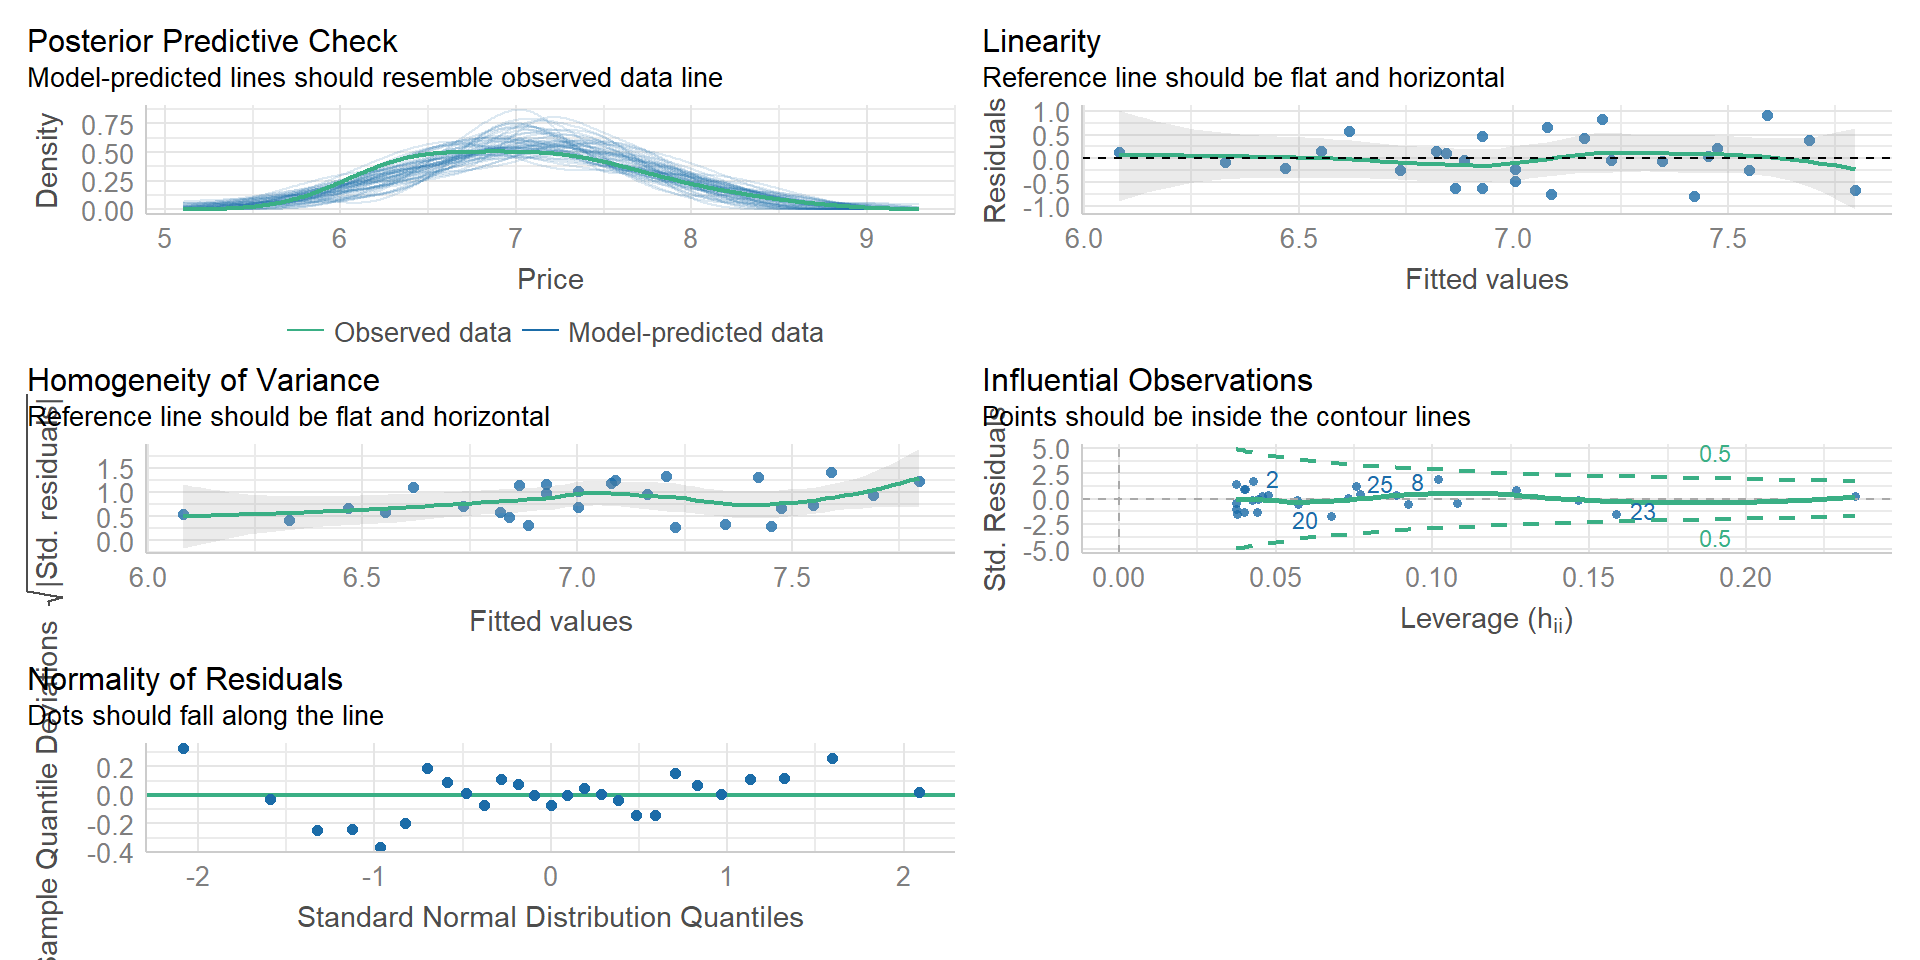
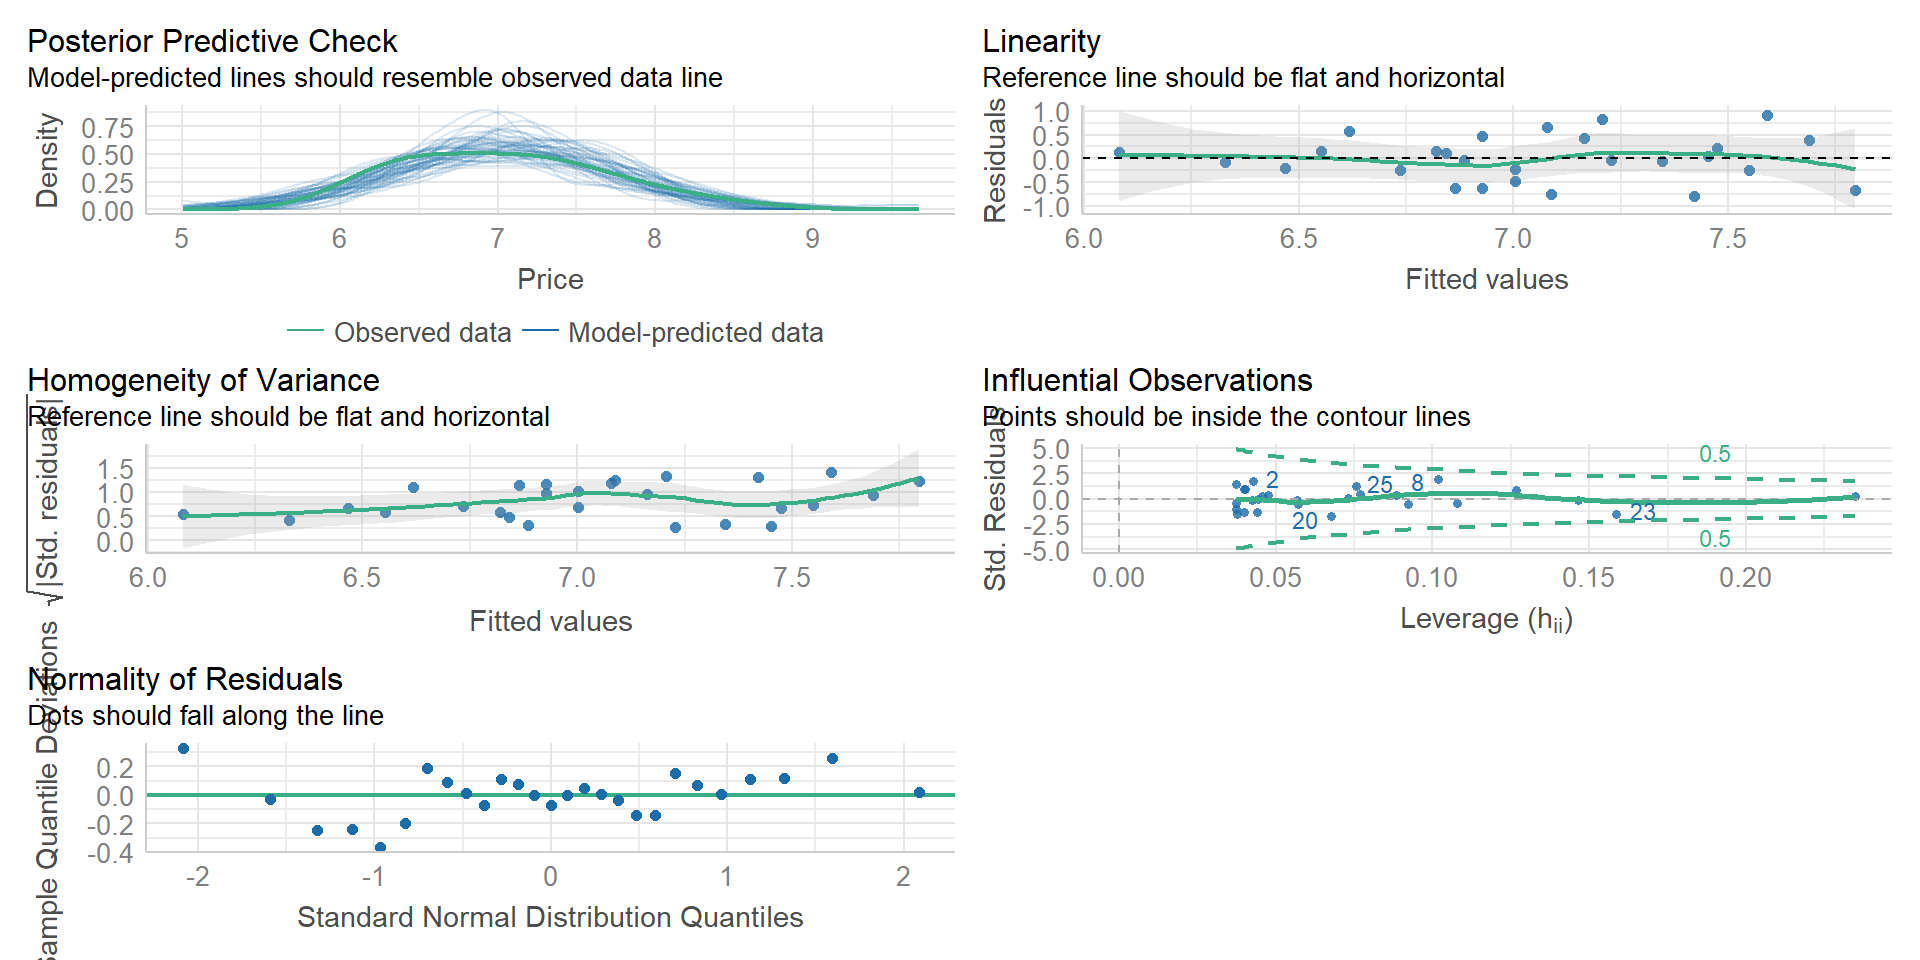
new deploy

Changed region(s): [[0.0312, 0.0938, 0.5, 0.2188]]

diff --git a/diapos/index-speaker.html b/diapos/index-speaker.html
@@ -2723,7 +2723,7 @@ Anderson-Darling          0.2422         0.7457
 <div class="cell">
 <div class="sourceCode cell-code" id="cb85"><pre class="sourceCode numberSource r number-lines code-with-copy"><code class="sourceCode r"><span id="cb85-1"><a href="#cb85-1"></a><span class="fu">check_autocorrelation</span>(ajuste_AGST)</span></code><button title="Copy to Clipboard" class="code-copy-button"><i class="bi"></i></button></pre></div>
 <div class="cell-output cell-output-stdout">
-<pre><code>OK: Residuals appear to be independent and not autocorrelated (p = 0.698).</code></pre>
+<pre><code>OK: Residuals appear to be independent and not autocorrelated (p = 0.592).</code></pre>
 </div>
 </div>
 <p>Por último, <code>check_autocorrelation()</code> comprueba como efectivamente los <span class="hl-yellow"><strong>residuales/errores son independientes</strong></span>, haciendo un test de autocorrelación (nos tiene que salir lo contrario a una serie temporal, que el error i no depende del i-1).</p>
@@ -3352,9 +3352,9 @@ Signif. codes:  0 '***' 0.001 '**' 0.01 '*' 0.05 '.' 0.1 ' ' 1</code></pre>
 
 Name          | Model |  AIC (weights) | AICc (weights) |  BIC (weights) |    R2 | R2 (adj.) |  RMSE | Sigma
 ------------------------------------------------------------------------------------------------------------
-ajuste_lineal |    lm | 3650.1 (0.778) | 3650.2 (0.788) | 3664.9 (&gt;.999) | 0.815 |     0.815 | 1.496 | 1.498
-ajuste_6pred  |    lm | 3652.6 (0.222) | 3652.8 (0.212) | 3691.9 (&lt;.001) | 0.816 |     0.815 | 1.491 | 1.496
-ajuste_23pred |    lm | 3668.7 (&lt;.001) | 3670.0 (&lt;.001) | 3791.4 (&lt;.001) | 0.820 |     0.815 | 1.478 | 1.496</code></pre>
+ajuste_lineal |    lm | 3650.1 (0.939) | 3650.2 (0.942) | 3664.9 (&gt;.999) | 0.815 |     0.815 | 1.496 | 1.498
+ajuste_6pred  |    lm | 3655.6 (0.061) | 3655.7 (0.058) | 3694.9 (&lt;.001) | 0.816 |     0.815 | 1.493 | 1.498
+ajuste_23pred |    lm | 3680.5 (&lt;.001) | 3681.9 (&lt;.001) | 3803.2 (&lt;.001) | 0.818 |     0.813 | 1.486 | 1.505</code></pre>
 </div>
 </div>
 <p>Con <code>compare_performance()</code> podemos comparar métricas de modelos.</p>
@@ -3399,12 +3399,12 @@ ajuste_23pred |    lm | 3668.7 (&lt;.001) | 3670.0 (&lt;.001) | 3791.4 (&lt;.001
 
 Name     | Model |  AIC (weights) | AICc (weights) |  BIC (weights) |    R2 | R2 (adj.) |  RMSE | Sigma
 -------------------------------------------------------------------------------------------------------
-ajuste_1 |    lm |   50.1 (&gt;.999) |   50.1 (&gt;.999) |   64.8 (&gt;.999) | 0.997 |     0.997 | 0.247 | 0.248
-ajuste_2 |    lm | 2827.3 (&lt;.001) | 2827.3 (&lt;.001) | 2842.0 (&lt;.001) | 0.956 |     0.956 | 0.992 | 0.993
-ajuste_3 |    lm | 3657.7 (&lt;.001) | 3657.8 (&lt;.001) | 3672.5 (&lt;.001) | 0.905 |     0.905 | 1.502 | 1.504
-ajuste_4 |    lm | 4271.0 (&lt;.001) | 4271.0 (&lt;.001) | 4285.7 (&lt;.001) | 0.834 |     0.833 | 2.041 | 2.043
-ajuste_5 |    lm | 5538.5 (&lt;.001) | 5538.6 (&lt;.001) | 5553.3 (&lt;.001) | 0.573 |     0.573 | 3.847 | 3.851
-ajuste_6 |    lm | 7036.9 (&lt;.001) | 7037.0 (&lt;.001) | 7051.7 (&lt;.001) | 0.228 |     0.228 | 8.138 | 8.146</code></pre>
+ajuste_1 |    lm |   76.1 (&gt;.999) |   76.1 (&gt;.999) |   90.8 (&gt;.999) | 0.997 |     0.997 | 0.251 | 0.251
+ajuste_2 |    lm | 2865.2 (&lt;.001) | 2865.3 (&lt;.001) | 2880.0 (&lt;.001) | 0.958 |     0.958 | 1.011 | 1.012
+ajuste_3 |    lm | 3596.6 (&lt;.001) | 3596.7 (&lt;.001) | 3611.4 (&lt;.001) | 0.916 |     0.916 | 1.457 | 1.458
+ajuste_4 |    lm | 4272.1 (&lt;.001) | 4272.1 (&lt;.001) | 4286.8 (&lt;.001) | 0.853 |     0.853 | 2.042 | 2.044
+ajuste_5 |    lm | 5581.3 (&lt;.001) | 5581.3 (&lt;.001) | 5596.0 (&lt;.001) | 0.607 |     0.607 | 3.930 | 3.934
+ajuste_6 |    lm | 6973.5 (&lt;.001) | 6973.5 (&lt;.001) | 6988.2 (&lt;.001) | 0.287 |     0.286 | 7.884 | 7.892</code></pre>
 </div>
 </div>
 </section>
@@ -3465,18 +3465,18 @@ lm(formula = y ~ x, data = datos)
 
 Residuals:
      Min       1Q   Median       3Q      Max 
--2.24296 -0.45519  0.03292  0.48913  1.64761 
+-2.06121 -0.47059  0.01528  0.40698  1.74181 
 
 Coefficients:
             Estimate Std. Error t value Pr(&gt;|t|)    
-(Intercept)  0.94952    0.10745   8.837 5.35e-16 ***
-x           -1.89776    0.08943 -21.221  &lt; 2e-16 ***
+(Intercept)  0.96022    0.10071   9.534   &lt;2e-16 ***
+x           -1.89063    0.08382 -22.556   &lt;2e-16 ***
 ---
 Signif. codes:  0 '***' 0.001 '**' 0.01 '*' 0.05 '.' 0.1 ' ' 1
 
-Residual standard error: 0.6788 on 198 degrees of freedom
-Multiple R-squared:  0.6946,    Adjusted R-squared:  0.6931 
-F-statistic: 450.3 on 1 and 198 DF,  p-value: &lt; 2.2e-16</code></pre>
+Residual standard error: 0.6362 on 198 degrees of freedom
+Multiple R-squared:  0.7198,    Adjusted R-squared:  0.7184 
+F-statistic: 508.8 on 1 and 198 DF,  p-value: &lt; 2.2e-16</code></pre>
 </div>
 </div>
 <div class="fragment">
@@ -3504,18 +3504,18 @@ lm(formula = y ~ x, data = datos)
 
 Residuals:
      Min       1Q   Median       3Q      Max 
--2.85030 -0.27702  0.02903  0.24577  2.18323 
+-1.95027 -0.22763  0.04217  0.22877  1.81189 
 
 Coefficients:
             Estimate Std. Error t value Pr(&gt;|t|)    
-(Intercept)  0.93472    0.08849   10.56   &lt;2e-16 ***
-x           -1.90353    0.07635  -24.93   &lt;2e-16 ***
+(Intercept)  0.91108    0.08528   10.68   &lt;2e-16 ***
+x           -1.87319    0.07357  -25.46   &lt;2e-16 ***
 ---
 Signif. codes:  0 '***' 0.001 '**' 0.01 '*' 0.05 '.' 0.1 ' ' 1
 
-Residual standard error: 0.6234 on 198 degrees of freedom
-Multiple R-squared:  0.7584,    Adjusted R-squared:  0.7572 
-F-statistic: 621.6 on 1 and 198 DF,  p-value: &lt; 2.2e-16</code></pre>
+Residual standard error: 0.6007 on 198 degrees of freedom
+Multiple R-squared:  0.766, Adjusted R-squared:  0.7648 
+F-statistic: 648.2 on 1 and 198 DF,  p-value: &lt; 2.2e-16</code></pre>
 </div>
 </div>
 </section>

diff --git a/diapos/index.html b/diapos/index.html
@@ -2723,7 +2723,7 @@ Anderson-Darling          0.2422         0.7457
 <div class="cell">
 <div class="sourceCode cell-code" id="cb85"><pre class="sourceCode numberSource r number-lines code-with-copy"><code class="sourceCode r"><span id="cb85-1"><a href="#cb85-1"></a><span class="fu">check_autocorrelation</span>(ajuste_AGST)</span></code><button title="Copy to Clipboard" class="code-copy-button"><i class="bi"></i></button></pre></div>
 <div class="cell-output cell-output-stdout">
-<pre><code>OK: Residuals appear to be independent and not autocorrelated (p = 0.698).</code></pre>
+<pre><code>OK: Residuals appear to be independent and not autocorrelated (p = 0.592).</code></pre>
 </div>
 </div>
 <p>Por último, <code>check_autocorrelation()</code> comprueba como efectivamente los <span class="hl-yellow"><strong>residuales/errores son independientes</strong></span>, haciendo un test de autocorrelación (nos tiene que salir lo contrario a una serie temporal, que el error i no depende del i-1).</p>
@@ -3352,9 +3352,9 @@ Signif. codes:  0 '***' 0.001 '**' 0.01 '*' 0.05 '.' 0.1 ' ' 1</code></pre>
 
 Name          | Model |  AIC (weights) | AICc (weights) |  BIC (weights) |    R2 | R2 (adj.) |  RMSE | Sigma
 ------------------------------------------------------------------------------------------------------------
-ajuste_lineal |    lm | 3650.1 (0.778) | 3650.2 (0.788) | 3664.9 (&gt;.999) | 0.815 |     0.815 | 1.496 | 1.498
-ajuste_6pred  |    lm | 3652.6 (0.222) | 3652.8 (0.212) | 3691.9 (&lt;.001) | 0.816 |     0.815 | 1.491 | 1.496
-ajuste_23pred |    lm | 3668.7 (&lt;.001) | 3670.0 (&lt;.001) | 3791.4 (&lt;.001) | 0.820 |     0.815 | 1.478 | 1.496</code></pre>
+ajuste_lineal |    lm | 3650.1 (0.939) | 3650.2 (0.942) | 3664.9 (&gt;.999) | 0.815 |     0.815 | 1.496 | 1.498
+ajuste_6pred  |    lm | 3655.6 (0.061) | 3655.7 (0.058) | 3694.9 (&lt;.001) | 0.816 |     0.815 | 1.493 | 1.498
+ajuste_23pred |    lm | 3680.5 (&lt;.001) | 3681.9 (&lt;.001) | 3803.2 (&lt;.001) | 0.818 |     0.813 | 1.486 | 1.505</code></pre>
 </div>
 </div>
 <p>Con <code>compare_performance()</code> podemos comparar métricas de modelos.</p>
@@ -3399,12 +3399,12 @@ ajuste_23pred |    lm | 3668.7 (&lt;.001) | 3670.0 (&lt;.001) | 3791.4 (&lt;.001
 
 Name     | Model |  AIC (weights) | AICc (weights) |  BIC (weights) |    R2 | R2 (adj.) |  RMSE | Sigma
 -------------------------------------------------------------------------------------------------------
-ajuste_1 |    lm |   50.1 (&gt;.999) |   50.1 (&gt;.999) |   64.8 (&gt;.999) | 0.997 |     0.997 | 0.247 | 0.248
-ajuste_2 |    lm | 2827.3 (&lt;.001) | 2827.3 (&lt;.001) | 2842.0 (&lt;.001) | 0.956 |     0.956 | 0.992 | 0.993
-ajuste_3 |    lm | 3657.7 (&lt;.001) | 3657.8 (&lt;.001) | 3672.5 (&lt;.001) | 0.905 |     0.905 | 1.502 | 1.504
-ajuste_4 |    lm | 4271.0 (&lt;.001) | 4271.0 (&lt;.001) | 4285.7 (&lt;.001) | 0.834 |     0.833 | 2.041 | 2.043
-ajuste_5 |    lm | 5538.5 (&lt;.001) | 5538.6 (&lt;.001) | 5553.3 (&lt;.001) | 0.573 |     0.573 | 3.847 | 3.851
-ajuste_6 |    lm | 7036.9 (&lt;.001) | 7037.0 (&lt;.001) | 7051.7 (&lt;.001) | 0.228 |     0.228 | 8.138 | 8.146</code></pre>
+ajuste_1 |    lm |   76.1 (&gt;.999) |   76.1 (&gt;.999) |   90.8 (&gt;.999) | 0.997 |     0.997 | 0.251 | 0.251
+ajuste_2 |    lm | 2865.2 (&lt;.001) | 2865.3 (&lt;.001) | 2880.0 (&lt;.001) | 0.958 |     0.958 | 1.011 | 1.012
+ajuste_3 |    lm | 3596.6 (&lt;.001) | 3596.7 (&lt;.001) | 3611.4 (&lt;.001) | 0.916 |     0.916 | 1.457 | 1.458
+ajuste_4 |    lm | 4272.1 (&lt;.001) | 4272.1 (&lt;.001) | 4286.8 (&lt;.001) | 0.853 |     0.853 | 2.042 | 2.044
+ajuste_5 |    lm | 5581.3 (&lt;.001) | 5581.3 (&lt;.001) | 5596.0 (&lt;.001) | 0.607 |     0.607 | 3.930 | 3.934
+ajuste_6 |    lm | 6973.5 (&lt;.001) | 6973.5 (&lt;.001) | 6988.2 (&lt;.001) | 0.287 |     0.286 | 7.884 | 7.892</code></pre>
 </div>
 </div>
 </section>
@@ -3465,18 +3465,18 @@ lm(formula = y ~ x, data = datos)
 
 Residuals:
      Min       1Q   Median       3Q      Max 
--2.24296 -0.45519  0.03292  0.48913  1.64761 
+-2.06121 -0.47059  0.01528  0.40698  1.74181 
 
 Coefficients:
             Estimate Std. Error t value Pr(&gt;|t|)    
-(Intercept)  0.94952    0.10745   8.837 5.35e-16 ***
-x           -1.89776    0.08943 -21.221  &lt; 2e-16 ***
+(Intercept)  0.96022    0.10071   9.534   &lt;2e-16 ***
+x           -1.89063    0.08382 -22.556   &lt;2e-16 ***
 ---
 Signif. codes:  0 '***' 0.001 '**' 0.01 '*' 0.05 '.' 0.1 ' ' 1
 
-Residual standard error: 0.6788 on 198 degrees of freedom
-Multiple R-squared:  0.6946,    Adjusted R-squared:  0.6931 
-F-statistic: 450.3 on 1 and 198 DF,  p-value: &lt; 2.2e-16</code></pre>
+Residual standard error: 0.6362 on 198 degrees of freedom
+Multiple R-squared:  0.7198,    Adjusted R-squared:  0.7184 
+F-statistic: 508.8 on 1 and 198 DF,  p-value: &lt; 2.2e-16</code></pre>
 </div>
 </div>
 <div class="fragment">
@@ -3504,18 +3504,18 @@ lm(formula = y ~ x, data = datos)
 
 Residuals:
      Min       1Q   Median       3Q      Max 
--2.85030 -0.27702  0.02903  0.24577  2.18323 
+-1.95027 -0.22763  0.04217  0.22877  1.81189 
 
 Coefficients:
             Estimate Std. Error t value Pr(&gt;|t|)    
-(Intercept)  0.93472    0.08849   10.56   &lt;2e-16 ***
-x           -1.90353    0.07635  -24.93   &lt;2e-16 ***
+(Intercept)  0.91108    0.08528   10.68   &lt;2e-16 ***
+x           -1.87319    0.07357  -25.46   &lt;2e-16 ***
 ---
 Signif. codes:  0 '***' 0.001 '**' 0.01 '*' 0.05 '.' 0.1 ' ' 1
 
-Residual standard error: 0.6234 on 198 degrees of freedom
-Multiple R-squared:  0.7584,    Adjusted R-squared:  0.7572 
-F-statistic: 621.6 on 1 and 198 DF,  p-value: &lt; 2.2e-16</code></pre>
+Residual standard error: 0.6007 on 198 degrees of freedom
+Multiple R-squared:  0.766, Adjusted R-squared:  0.7648 
+F-statistic: 648.2 on 1 and 198 DF,  p-value: &lt; 2.2e-16</code></pre>
 </div>
 </div>
 </section>
